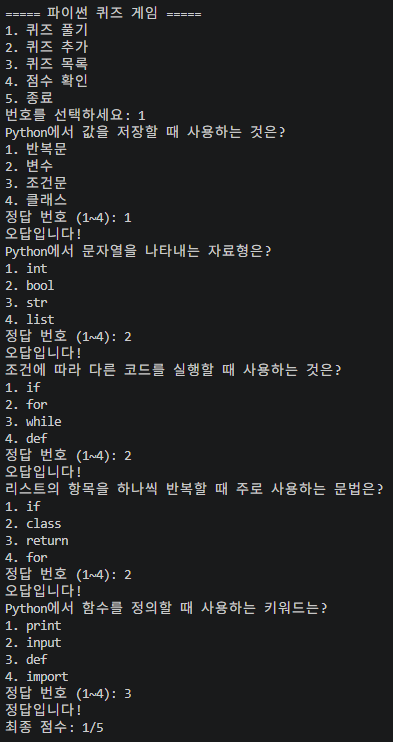
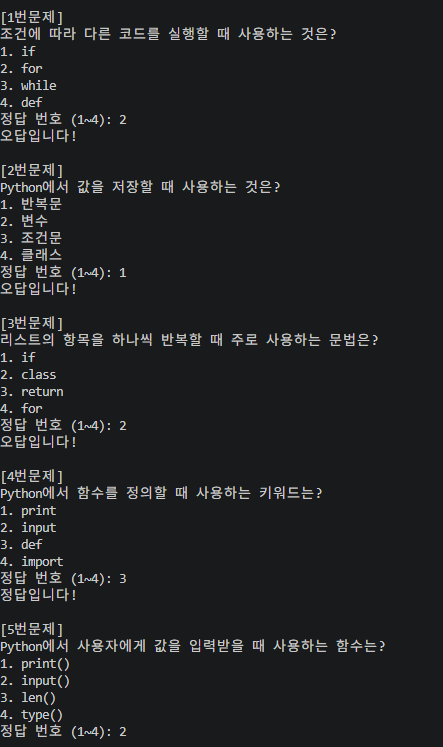
최종 정리

diff --git a/main.py b/main.py
@@ -132,9 +132,10 @@ class QuizGame:
         if not self.quizzes:
             print("등록된 퀴즈가 없습니다.")
             return
-
-        for quiz in random.sample(self.quizzes, len(self.quizzes)):
+        for i, quiz in enumerate(random.sample(self.quizzes, len(self.quizzes)), start=1):
+            print(f"\n[{i}번문제]")
             quiz.show_question()
+    
 
             while True:
                 try:
